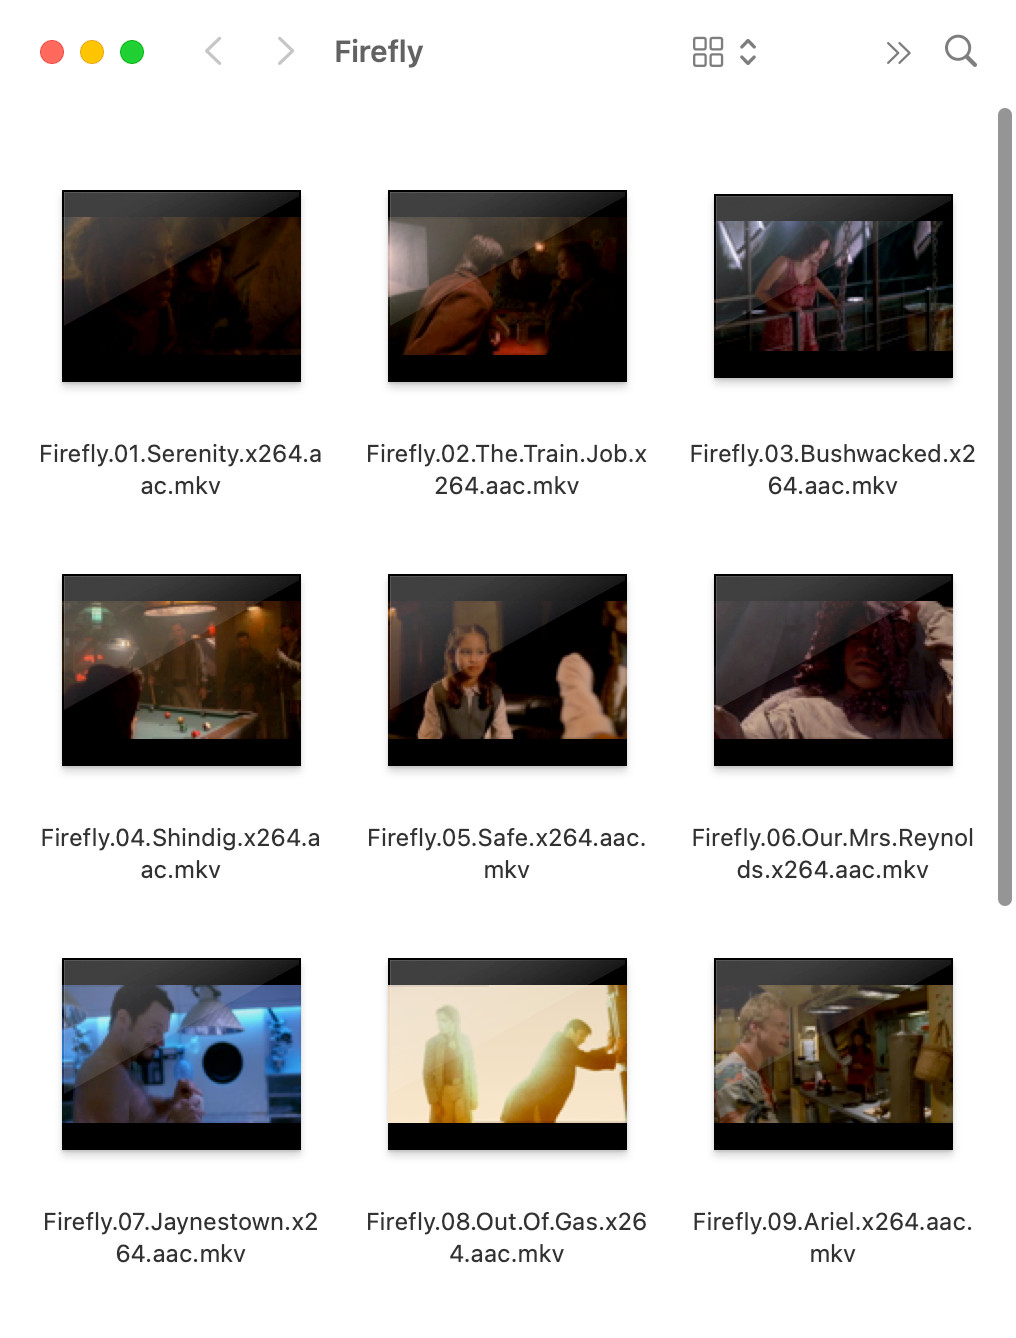
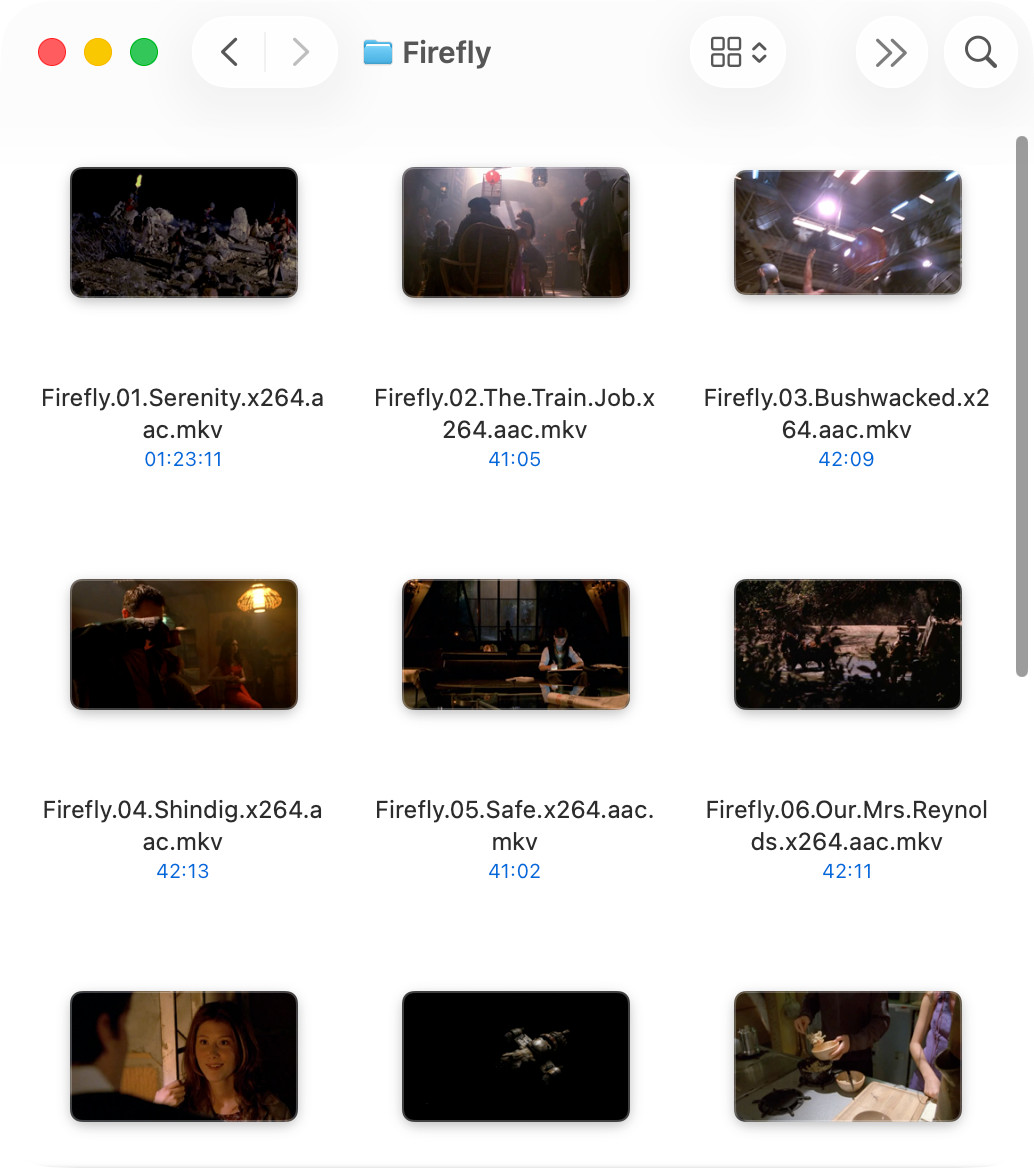
Update README and screenshots

diff --git a/README.md b/README.md
@@ -1,16 +1,32 @@
 QuickLook Video
 ===============
+This app allows macOS Finder to display thumbnails/cover art, QuickLook previews, and metadata for
+most types of audio and video files.
 
-This package allows macOS Finder to display thumbnails, static previews, cover art and metadata for most types of video files.
+QuickLook, AVFoundation and Spotlight understand a limited number of media files - mostly only MPEG
+audio and video codecs within MPEG container files. This app adds support for wide range of other
+codecs and "non-native" media file types, including:
+* File formats: Matroska (`.mka`, `.mkv`), WebM (`.webm`), Windows Media (`.wma`, `.wmv`),
+  Ogg Video (`.ogm`, `.ogv`), AVI (partial support) (`.avi`), Flash Video (`.flv`, `.f4v`),
+  Real Media (`.ra`, `.rm`, `.rv`), SMPTE (`.gxf`, `.mxf`) 
+* Audio codecs: Vorbis, Windows Media Audio, WavPak, ATRAC, etc.
+* Video codecs: VP6, VP8, VP9, AV1, VVC/H.266, Theora, Sorenson 1 & 3, Cinepak, Flash, Real Video,
+  Intel Indeo, etc.
 
-QuickLook and Spotlight understand a limited number of media files - mostly only MPEG audio and video codecs within MPEG container files. This package adds support for wide range of other codecs and "non-native" media file types, including `.asf`, `.avi`, `.flv`, `.mkv`, `.rm`, `.webm`, `.wmf` etc.
-
-<img src="img/finder.jpeg" alt="Finder" width="508"/> &nbsp; <img src="img/info.jpeg" alt="Finder Info" width="267"/>
-<img src="img/preview.jpeg" alt="QuickLook preview" width="962"/>
+How does it work?
+-----------------
+The app contains a Spotlight extension that adds support for non-native file formats, and two Media Extensions that add support to AVFoundation for non-native file formats and video codecs. (Long-time Mac users may remember [Perian](https://www.perian.org) which performed a similar function with the QuickTime framework before QuickTime was replaced by AVFoundation).
 
 Installation and Usage
 ----------------------
 See [Getting Started](https://github.com/Marginal/QLVideo/wiki/Getting-Started).
+
+Troubleshooting
+---------------
+See the [troubleshooting guide](https://github.com/Marginal/QLVideo/wiki/Troubleshooting) if you have any problems.
+
+<img src="img/finder.jpeg" alt="Finder" width="517"/> &nbsp; <img src="img/info.jpeg" alt="Finder Info" width="271"/>
+<img src="img/preview.jpeg" alt="QuickLook preview" width="879"/>
 
 License
 -------
